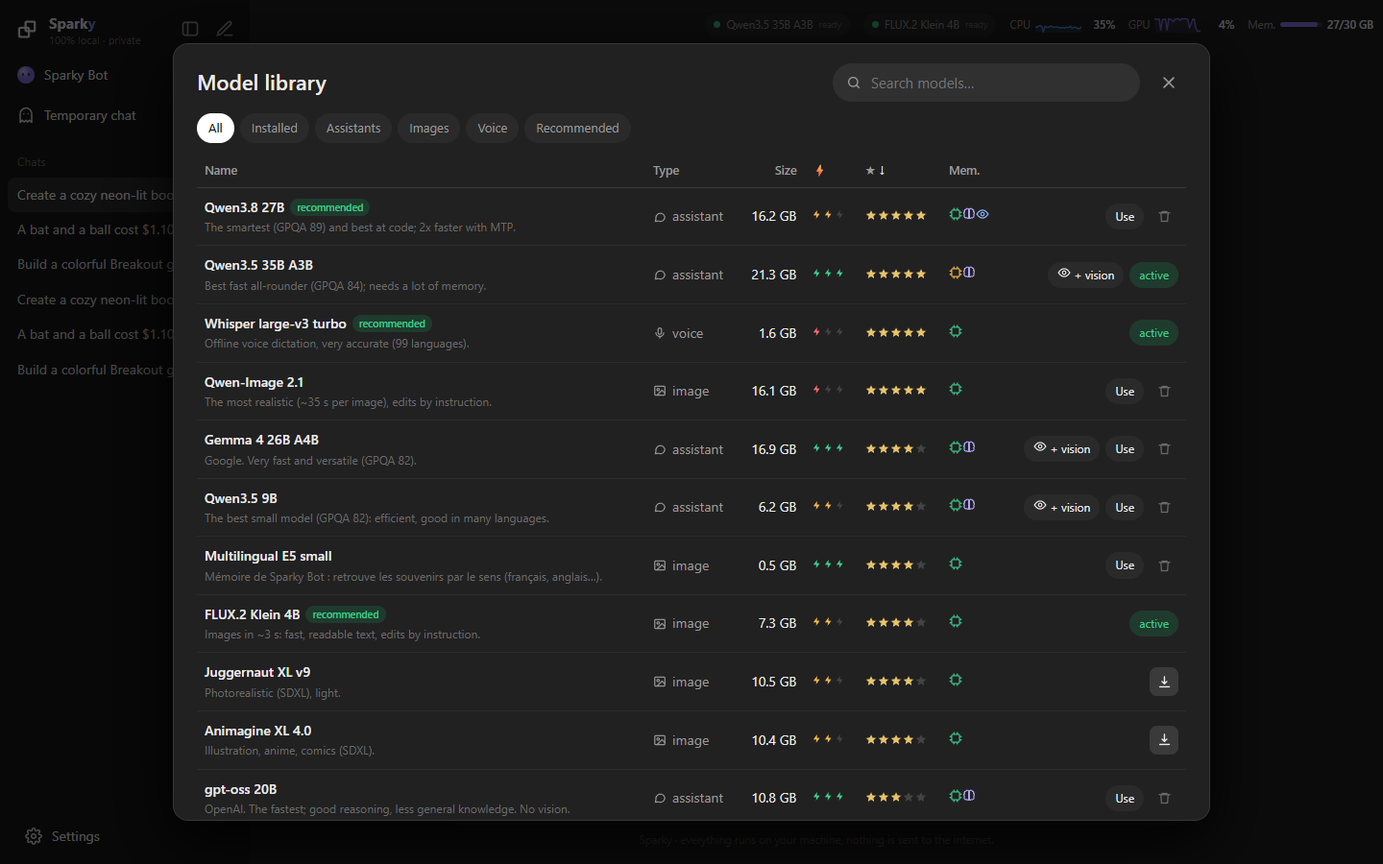
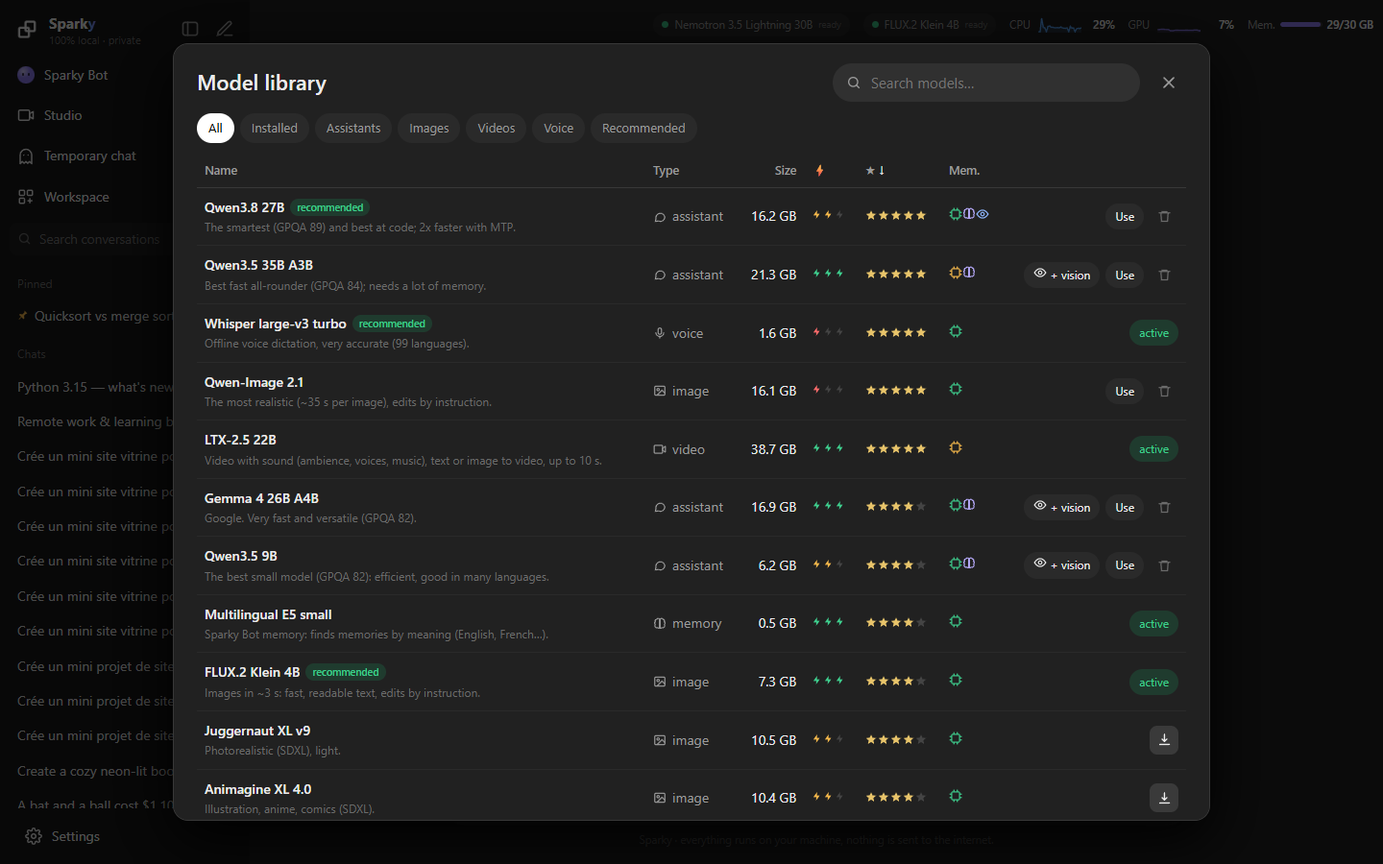
README: features with emojis, new screenshots (Studio, video GIF, web search, light theme, tasks, settings, library); light theme and translation fixes

diff --git a/app/index.html b/app/index.html
@@ -26,7 +26,7 @@ body.closed #side{margin-left:-260px}
 #list{flex:1;overflow-y:auto;padding:6px 8px}
 #list .h{font-size:12px;color:var(--dim);padding:12px 10px 6px}
 .cv{display:flex;align-items:center;padding:7px 10px;border-radius:8px;cursor:pointer;font-size:14px;color:var(--txt2)}
-.cv:hover{background:var(--hov)}.cv.on{background:var(--s2);color:#fff}
+.cv:hover{background:var(--hov)}.cv.on{background:var(--s2);color:var(--txt)}
 .cv span{flex:1;overflow:hidden;white-space:nowrap;text-overflow:ellipsis}
 .cv button{display:none;color:var(--mut);width:24px;height:24px;border-radius:6px;place-items:center}
 .cv:hover button{display:grid}.cv button:hover{color:var(--bad)}
@@ -140,7 +140,7 @@ footer{padding:0 20px 16px}
 #edwrap{position:relative;line-height:0}
 #edwrap canvas{display:block}
 #mk{position:absolute;left:0;top:0;opacity:.5;cursor:crosshair;touch-action:none}
-input[type=range]{accent-color:#fff}
+input[type=range]{accent-color:var(--txt)}
 #set{position:fixed;inset:0;background:#000a;display:none;place-items:center;z-index:12}
 #set .card{background:var(--s2);border-radius:16px;width:min(520px,94vw);max-height:90vh;overflow:auto;padding:22px}
 #set h3{margin:0 0 16px;font-weight:600}
@@ -954,6 +954,9 @@ const EN={
  'Tes images et vidéos : génère, anime une image':'Your images and videos: generate, animate a picture','vidéo':'video','pour 5 s de vidéo':'for 5 s of video',
  'en pause (vidéo)':'paused (video)',"l'assistant est en pause pendant une vidéo du Studio, il revient juste après":'the assistant is paused during a Studio video, it comes back right after',
  "rechargement de l'assistant":'reloading the assistant',
+ "Vidéo avec le son (ambiance, voix, musique), texte ou image vers vidéo, jusqu'à 10 s.":'Video with sound (ambience, voices, music), text or image to video, up to 10 s.',
+ 'Vidéo plus légère (sans le son), texte ou image vers vidéo.':'Lighter video (no sound), text or image to video.','inconnu':'unknown',
+ 'lourd : l’assistant est mis en pause pendant une vidéo':'heavy: the assistant is paused during a video','tient en mémoire':'fits in memory',
  'Thème':'Theme','Auto (comme Windows)':'Auto (follow Windows)','Clair':'Light','Sombre':'Dark',
  // projets
  'Test automatique : ça fonctionne':'Automatic test: it works','Test automatique : erreurs trouvées':'Automatic test: errors found','essai':'attempt',
@@ -994,6 +997,7 @@ const EN={
  "Sans GPU NVIDIA, l'assistant tourne sur le processeur : choisis un petit modèle.":'Without an NVIDIA GPU the assistant runs on the processor: pick a small model.',
 };
 const EN_RX=[
+ [/^En cours : (.+?) · Auto = (.+?) selon la mémoire libre\. Un contexte plus grand utilise plus de mémoire\.$/,'Running: $1 · Auto = $2 from the free memory. A bigger context uses more memory.'],
  [/^clé (.+)$/,'key $1'],[/^☁ Modèle cloud actif \((.+)\) : tes messages sont envoyés à ce fournisseur\.$/,'☁ Cloud model active ($1): your messages are sent to this provider.'],
  [/^(\d+) modèles$/,'$1 models'],[/^Connexion à (.+)$/,'Connecting to $1'],
  [/^(.+) · ([\d.]+) Go$/,'$1 · $2 GB'],[/^(.+) · à jour$/,'$1 · up to date'],[/^(.+) · nouvelle version (.+) disponible$/,'$1 · new version $2 available'],

diff --git a/README.md b/README.md
@@ -19,78 +19,89 @@ everything runs on your own PC. Nothing is sent to the internet unless you turn 
   <img alt="English and French" src="https://img.shields.io/badge/UI-English%20%7C%20Fran%C3%A7ais-lightgrey">
 </p>
 
-<p align="center"><img src="docs/demo-artifact.gif" alt="Sparky writes a Breakout game live in the side panel, then runs it" width="900"></p>
+<p align="center"><img src="docs/demo-studio.gif" alt="Sparky Studio: videos with sound generated locally" width="900"><br><i>🎬 The Studio — every video here was generated on the PC, with its sound, by LTX-2.5.</i></p>
 
 ---
 
-## What it does
+## ✨ What it does
 
-- **Chat like ChatGPT, offline** — conversation history, plus **temporary chats** that are never saved. **Edit** any of your messages, **regenerate** or **continue** an answer, and flip between the versions (‹ 2/3 ›).
-- **Ask your documents (RAG)** — drop PDFs, Word, Excel, PowerPoint, text or code files into a collection: Sparky splits and indexes them on your PC (multilingual embeddings), then answers from them and **cites its sources** [1] [2].
-- **Web search, when you want it** — turn on *Web* under the message box: the assistant searches (DuckDuckGo, or your own SearXNG), reads the pages and the links you paste, and cites them. Off by default.
-- **Assistants & prompt library** — save assistants (a role, their documents, web access) and reusable prompts you insert with **/**, plus standing instructions for every chat or for one conversation.
-- **Rich answers** — tables, LaTeX formulas, Mermaid diagrams, task lists and syntax-highlighted code, all rendered offline.
-- **Organize your chats** — full-text search, rename, pin, folders, export (JSON / Markdown) and import.
-- **Read aloud** — 🔊 on any answer: offline Piper voices (English, French, German, Spanish, Italian).
-- **Tools (MCP)** — plug any Model Context Protocol server (same config as Claude Desktop: files, GitHub, databases…) and the assistant uses its tools.
-- **Scheduled tasks** — "every morning at 8, summarize the tech news": Sparky runs the prompt and files the answer in a new chat.
-- **OpenAI-compatible API** — use Sparky's model from other apps (Continue, VS Code extensions, scripts) at `http://127.0.0.1:7860/v1`, with a key. Off by default.
-- **Light or dark** — follows Windows, or choose in the settings.
-- **Code & apps panel** — ask for a game, a web page, a tool or a script: it is written live in a panel next to the chat, with a **running preview**, the code, versions, copy and download.
-- **Multi-file projects** — "build me a mini project": a website with `index.html` + `css/` + `js/`, or a Python program split in modules. Files are written one by one, the preview serves the whole project, the assistant can **generate the pictures** of a website itself (hero banner, products…) and put them in the project, and when it is done Sparky **tests the project automatically** — website opened in a headless browser (JavaScript errors, missing files, broken layout, every button clicked), Python and Node.js programs executed (`npm install` included) — and the model **fixes the errors until it works**. **▶ Run** re-runs it anytime, and the project downloads as a ZIP. Node.js is installed automatically (portable).
-- **Studio: images & videos** — a gallery of everything you generated, with a Grok-Imagine-like prompt bar: **text → image**, **text → video** and **image → video** (animate any picture). Videos come **with synchronized sound** (LTX-2.5); your idea can be expanded into a detailed prompt by the assistant first.
-- **Images** — generate and edit pictures by simply asking ("make it snow", "remove the bottle"). The agent checks its own result and retries when needed.
-- **Attach any file** — click **+** or drag and drop: PDF, Word, PowerPoint, Excel, text and code files are read, audio and video are transcribed offline by Whisper, and everything is given to the assistant as context. Each file shows a preview card (*Added as context!*).
-- **Vision** — drop photos, screenshots or scanned documents: the assistant sees and analyses them.
-- **Sparky Bot (beta)** — a companion that remembers you, learns your style and grows with you, with a memory you can see and edit ([details](#-sparky-bot--personal-companion-with-memory-beta-in-progress)).
-- **Voice dictation, offline** — click the mic, talk, stop: Whisper turns your voice into text right in the input box.
-- **Adjustable thinking** — Off, Light, Normal or Deep, right from the model menu.
-- **System scan** — at install time (and anytime from *Settings > System*) Sparky checks your GPU, memory and disk, then **recommends the models that fit your machine**.
-- **Cloud models, if you want** — add an OpenRouter, Claude, OpenAI (or other) key in the settings to use cloud models too. Off by default.
-- **Models already on your PC** — on first launch Sparky looks for the models you already have (LM Studio, Ollama, Hugging Face cache, Jan, GPT4All, llama.cpp, other ComfyUI installs, any folder) and uses them in one click, without downloading them again.
-- **Model library** — one-click installs with resumable downloads, and speed / quality / memory indicators *for your hardware*.
-- **Only official models** — Qwen, Gemma, gpt-oss, Nemotron, FLUX.2, Whisper… "uncensored", "abliterated" or NSFW variants are excluded from the catalog and from the Hugging Face search.
-- **English or French** — chosen during install, switchable in the settings.
+### 💬 Chat
+- 🔒 **Like ChatGPT, offline** — history, plus 👻 **temporary chats** that are never saved.
+- ✏ **Edit** any message, 🔁 **regenerate** or ➡ **continue** an answer, and flip between versions (‹ 2/3 ›).
+- 🧠 **Adjustable thinking** — Off, Light, Normal or Deep, and see how the model reasoned.
+- 📝 **Rich answers** — tables, LaTeX formulas, Mermaid diagrams, task lists, syntax-highlighted code (all offline).
+- 👁 **Vision** — drop photos, screenshots or scans: the assistant sees and analyses them.
+- 📎 **Attach any file** — PDF, Word, PowerPoint, Excel, text, code, audio and video (transcribed offline).
+- 🗂 **Organize your chats** — full-text search, rename, 📌 pin, 📁 folders, export (JSON / Markdown) and import.
 
-## Everything Sparky supports
+### 📚 Knowledge & web
+- 📄 **Ask your documents (RAG)** — collections of PDFs, Office files, text, code… indexed on your PC, answers **with numbered sources** [1] [2].
+- 🌐 **Web search, when you want it** — turn on *Web*: the assistant searches (DuckDuckGo or your SearXNG), reads pages and the links you paste, and cites them. Off by default.
+- 🧑💼 **Assistants** — a role, its documents and web access, reusable in one click.
+- ⚡ **Prompt library** — type **/** to insert a saved prompt with `{{variables}}`; standing instructions for every chat or just one.
+
+### 🎨 Create
+- 🎬 **Studio: images & videos** — a gallery of everything you generated, with a Grok-Imagine-like prompt bar: **text → image**, **text → video**, **image → video** ("Animate"). Videos come **with synchronized sound** 🔊 (LTX-2.5), and your idea is expanded into a detailed prompt first.
+- 🖼 **Images** — generate and edit by asking ("make it snow", "remove the bottle"); the agent checks its own result and retries.
+- 🧩 **Code & apps panel** — games, pages, tools and scripts written live next to the chat, with a **running preview**.
+- 🏗 **Multi-file projects** — websites (`index.html` + `css/` + `js/`), Python or Node.js programs; the assistant makes the pictures, then Sparky **tests the project automatically** (headless browser, `npm install`, run) and the model **fixes the errors until it works**. ▶ Run anytime, download as ZIP.
+
+### 🎙 Voice
+- 🎤 **Dictation, offline** — click the mic, talk, stop: Whisper writes it in the input box.
+- 🔊 **Read aloud** — on any answer, offline Piper voices (English, French, German, Spanish, Italian).
+
+### 🛠 Tools & automation
+- 🔌 **MCP tools** — plug any Model Context Protocol server (same config as Claude Desktop: files, GitHub, databases…).
+- ⏰ **Scheduled tasks** — "every morning at 8, summarize the tech news": the answer lands in a new chat.
+- 🔗 **OpenAI-compatible API** — use Sparky's model from Continue, VS Code extensions or scripts at `http://127.0.0.1:7860/v1`. Off by default.
+- 🤖 **Sparky Bot (beta)** — a companion that remembers you and learns your style, with a memory you can see and edit ([details](#-sparky-bot--personal-companion-with-memory-beta-in-progress)).
+
+### ⚙ Models & setup
+- 🩺 **System scan** — checks your GPU, memory and disk, then **recommends the models that fit your machine**.
+- 📦 **Model library** — one-click installs, fast parallel resumable downloads, speed / quality / memory indicators *for your hardware*.
+- ♻ **Models already on your PC** — LM Studio, Ollama, Hugging Face cache, Jan, GPT4All, other ComfyUI installs… used in one click.
+- ☁ **Cloud models, if you want** — OpenRouter, Claude, OpenAI, Gemini, Mistral… Off by default.
+- ✅ **Only official models** — "uncensored", "abliterated" or NSFW variants are excluded from the catalog and the Hugging Face search.
+- 🌗 **Light or dark** theme, 🇬🇧 **English or 🇫🇷 French** interface, ⬆ one-click updates.
+
+## 📋 Everything Sparky supports
 
 | Area | Supported |
 |---|---|
-| **Chat** | streaming answers · visible reasoning with 4 thinking levels · edit a sent message · regenerate · continue · answer versions (‹ 2/3 ›) · copy · read aloud · temporary chats · English / French UI · light / dark / auto theme |
-| **Conversations** | history · full-text search · rename · pin · folders · export JSON (with images) or Markdown · import (Sparky JSON or `[{role, content}]`) |
-| **Setup of a chat** | assistant presets (role, documents, web) · per-chat instructions (system prompt) · standing instructions for every chat · prompt library with `/commands` and `{{variables}}` |
-| **Documents (RAG)** | collections · PDF (with page numbers), Word, PowerPoint, Excel, OpenDocument, text, Markdown, CSV, JSON, code, audio and video (transcribed) · local multilingual embeddings (`multilingual-e5-small`) + keyword search · numbered citations with the source passages |
-| **Web** | search (DuckDuckGo / Bing, or your SearXNG) · reads pages and pasted links (HTML, PDF, text) · citations · private addresses blocked · off by default, per chat |
-| **Files in a message** | images (vision), PDF, Office, text and code, audio and video (offline Whisper transcription) · drag and drop, paste |
-| **Studio** | media library of every image and video (Studio and chats) · text → image · text → video · image → video ("Animate") · 16:9, 9:16, 1:1, 4:3, 3:4 · 3 to 10 s · prompt enhancement · video player, download, reuse prompt · the local assistant pauses during a video and comes back after |
-| **Video models** | LTX-2.5 22B (video + sound, ~40 s for 4 s of video on an RTX Spark once loaded) · Wan 2.2 5B (lighter, no sound) |
-| **Images** | generate and edit by instruction (FLUX.2 Klein, Qwen-Image 2.1, SDXL) · paint a zone to edit · reuse a face, character, style or scene · the agent checks its result and retries |
-| **Code & projects** | artifacts panel with live preview, code, versions, download · multi-file projects (web, Python, Node.js) · automatic test-and-fix loop (headless browser, Python, `npm install` / build / test) · ▶ Run · ZIP download · generated pictures inside projects |
-| **Markdown** | GFM tables · task lists · LaTeX (KaTeX) · Mermaid diagrams · syntax highlighting · citations · served locally (no CDN) |
-| **Voice** | offline dictation (Whisper large-v3 turbo / base) with live level bars · offline read-aloud (Piper voices: en, fr, de, es, it) |
-| **Tools** | MCP servers over stdio (`command` / `args` / `env`) or Streamable HTTP (`url` / `headers`), Claude Desktop config format |
-| **Automation** | scheduled tasks: daily, weekly, every N minutes, once · results filed in a new chat with an unread badge |
-| **API** | OpenAI-compatible `/v1/models`, `/v1/chat/completions` (streaming or not), `/v1/embeddings` · bearer key · off by default · local only |
-| **Models** | local GGUF assistants (llama.cpp: CUDA x64 / ARM64, or CPU) · catalog with speed / quality / memory for your PC · models already on your PC (LM Studio, Ollama, Hugging Face cache…) · Hugging Face search · optional cloud models (OpenRouter, Claude, OpenAI, Gemini, Mistral, Groq, DeepSeek, xAI, any OpenAI-compatible server) · only official, non-NSFW models |
-| **Sparky Bot (beta)** | companion with long-term, editable memory · style profile · journal · relationship level |
-| **Install & updates** | step-by-step installer · system scan with recommended models · one-click updates |
+| 💬 **Chat** | streaming answers · visible reasoning with 4 thinking levels · edit a sent message · regenerate · continue · answer versions (‹ 2/3 ›) · copy · read aloud · temporary chats · English / French UI · light / dark / auto theme |
+| 🗂 **Conversations** | history · full-text search · rename · pin · folders · export JSON (with images) or Markdown · import (Sparky JSON or `[{role, content}]`) |
+| 🧑💼 **Setup of a chat** | assistant presets (role, documents, web) · per-chat instructions (system prompt) · standing instructions for every chat · prompt library with `/commands` and `{{variables}}` |
+| 📄 **Documents (RAG)** | collections · PDF (with page numbers), Word, PowerPoint, Excel, OpenDocument, text, Markdown, CSV, JSON, code, audio and video (transcribed) · local multilingual embeddings (`multilingual-e5-small`) + keyword search · numbered citations with the source passages |
+| 🌐 **Web** | search (DuckDuckGo / Bing, or your SearXNG) · reads pages and pasted links (HTML, PDF, text) · citations · private addresses blocked · off by default, per chat |
+| 📎 **Files in a message** | images (vision), PDF, Office, text and code, audio and video (offline Whisper transcription) · drag and drop, paste |
+| 🎬 **Studio** | media library of every image and video (Studio and chats) · text → image · text → video · image → video ("Animate") · 16:9, 9:16, 1:1, 4:3, 3:4 · 3 to 10 s · prompt enhancement · video player, download, reuse prompt · the local assistant pauses during a video and comes back after |
+| 🎞 **Video models** | LTX-2.5 22B (video + sound, ~40 s for 4 s of video on an RTX Spark once loaded) · Wan 2.2 5B (lighter, no sound) |
+| 🖼 **Images** | generate and edit by instruction (FLUX.2 Klein, Qwen-Image 2.1, SDXL) · paint a zone to edit · reuse a face, character, style or scene · the agent checks its result and retries |
+| 🧩 **Code & projects** | artifacts panel with live preview, code, versions, download · multi-file projects (web, Python, Node.js) · automatic test-and-fix loop (headless browser, Python, `npm install` / build / test) · ▶ Run · ZIP download · generated pictures inside projects |
+| 📝 **Markdown** | GFM tables · task lists · LaTeX (KaTeX) · Mermaid diagrams · syntax highlighting · citations · served locally (no CDN) |
+| 🎙 **Voice** | offline dictation (Whisper large-v3 turbo / base) with live level bars · offline read-aloud (Piper voices: en, fr, de, es, it) |
+| 🔌 **Tools** | MCP servers over stdio (`command` / `args` / `env`) or Streamable HTTP (`url` / `headers`), Claude Desktop config format |
+| ⏰ **Automation** | scheduled tasks: daily, weekly, every N minutes, once · results filed in a new chat with an unread badge |
+| 🔗 **API** | OpenAI-compatible `/v1/models`, `/v1/chat/completions` (streaming or not), `/v1/embeddings` · bearer key · off by default · local only |
+| 📦 **Models** | local GGUF assistants (llama.cpp: CUDA x64 / ARM64, or CPU) · catalog with speed / quality / memory for your PC · models already on your PC (LM Studio, Ollama, Hugging Face cache…) · Hugging Face search · optional cloud models (OpenRouter, Claude, OpenAI, Gemini, Mistral, Groq, DeepSeek, xAI, any OpenAI-compatible server) · only official, non-NSFW models |
+| 🤖 **Sparky Bot (beta)** | companion with long-term, editable memory · style profile · journal · relationship level |
+| 🚀 **Install & updates** | step-by-step installer · system scan with recommended models · one-click updates |
 
-## Screenshots
-
-<p align="center"><img src="docs/studio.png" alt="Studio: media library and prompt bar" width="900"><br><i>Studio — every image and video in one place; here a picture is about to be animated into a video with sound.</i></p>
+## 📸 Screenshots
 
 | | |
 |---|---|
-| <img src="docs/studio-video.png" alt="Studio video viewer"><br>**Image → video** — the lighthouse picture, animated with LTX-2.5 (waves, rotating beam, sound) | <img src="docs/knowledge-chat.png" alt="Answers from your documents with citations"><br>**Documents** — answers from your files, with numbered sources |
-| <img src="docs/markdown.png" alt="Tables, formulas and diagrams"><br>**Rich answers** — tables, LaTeX, Mermaid, versions of an answer | <img src="docs/workspace-documents.png" alt="Workspace: document collections"><br>**Workspace** — document collections indexed on your PC |
-| <img src="docs/workspace-assistants.png" alt="Workspace: assistants"><br>**Assistants** — a role, documents and web access, reusable | <img src="docs/prompts.png" alt="Prompt library"><br>**Prompt library** — type / to insert a saved prompt |
-| <img src="docs/workspace-tools.png" alt="MCP tools"><br>**Tools (MCP)** — plug any MCP server | |
+| <img src="docs/studio.png" alt="Studio: videos generated locally"><br>🎬 **Studio** — your images and videos, with their sound | <img src="docs/studio-video.png" alt="Studio video viewer"><br>🎞 **Video viewer** — balloons over Cappadocia, made on the PC in 2 minutes |
+| <img src="docs/studio-animate.png" alt="Animate a picture"><br>✨ **Image → video** — pick a picture, describe the motion and the sounds | <img src="docs/web-search.png" alt="Web search with citations"><br>🌐 **Web search** — the assistant searches, reads and cites its sources |
+| <img src="docs/knowledge-chat.png" alt="Answers from your documents with citations"><br>📄 **Documents** — answers from your files, with numbered sources | <img src="docs/markdown.png" alt="Tables, formulas and diagrams"><br>📝 **Rich answers** — tables, LaTeX, Mermaid, versions of an answer |
+| <img src="docs/workspace-documents.png" alt="Workspace: document collections"><br>📚 **Workspace** — document collections indexed on your PC | <img src="docs/workspace-assistants.png" alt="Workspace: assistants"><br>🧑💼 **Assistants** — a role, documents and web access, reusable |
+| <img src="docs/prompts.png" alt="Prompt library"><br>⚡ **Prompt library** — type / to insert a saved prompt | <img src="docs/workspace-tools.png" alt="MCP tools"><br>🔌 **Tools (MCP)** — plug any MCP server |
+| <img src="docs/workspace-tasks.png" alt="Scheduled tasks"><br>⏰ **Scheduled tasks** — prompts that run by themselves | <img src="docs/light.png" alt="Light theme"><br>🌗 **Light theme** — or dark, or follow Windows |
+| <img src="docs/image-edit.png" alt="Image generation and editing"><br>🖼 **Images** — generate, then edit by instruction | <img src="docs/thinking.png" alt="Visible reasoning"><br>🧠 **Thinking** — see how the model reasoned |
+| <img src="docs/library-video.png" alt="Video models in the library"><br>📦 **Model library** — assistants, images, videos, voice | <img src="docs/settings.png" alt="Settings"><br>⚙ **Settings** — language, theme, system, models, context |
+| <img src="docs/welcome.png" alt="Welcome screen with system scan"><br>🩺 **First launch** — system scan and recommended models | <img src="docs/picker.png" alt="Model menu with thinking levels"><br>🔀 **Model menu** — switch models, pick a thinking level |
 
-| | |
-|---|---|
-| <img src="docs/image-edit.png" alt="Image generation and editing"><br>**Images** — generate, then edit by instruction | <img src="docs/thinking.png" alt="Visible reasoning"><br>**Thinking** — see how the model reasoned |
-| <img src="docs/welcome.png" alt="Welcome screen with system scan"><br>**First launch** — system scan and recommended models | <img src="docs/picker.png" alt="Model menu with thinking levels"><br>**Model menu** — switch models, pick a thinking level |
-| <img src="docs/library.png" alt="Model library"><br>**Model library** — speed, quality and memory for your PC | <img src="docs/settings.png" alt="Settings"><br>**Settings** — language, system, models |
+<p align="center"><img src="docs/demo-artifact.gif" alt="Sparky writes a Breakout game live in the side panel, then runs it" width="800"><br><i>🧩 A Breakout game written live in the side panel, then played.</i></p>
 
 <p align="center"><img src="docs/demo-image.gif" alt="Generating and editing an image" width="800"></p>
 
@@ -129,7 +140,7 @@ Sparky Bot is a friend-like companion that **remembers you, learns your style an
 - [ ] Memory import / export, per-memory "why do you know this?" with the source message
 - [ ] Larger evaluation set for the memory engine across models
 
-## Install (Windows 10/11)
+## 🚀 Install (Windows 10/11)
 
 **One line**, in PowerShell:
 
@@ -157,7 +168,7 @@ Next times, double-click the shortcut (or `start.bat`). To stop everything: `sto
 
 Installer options: `-Lang en|fr`, `-Dir <folder>`, `-Yes` (no questions), `-Models` (also download the recommended models from the terminal), `-NoLaunch`. For the one-line install, use the environment variables `SPARKY_LANG`, `SPARKY_DIR`, `SPARKY_YES`, `SPARKY_MODELS`, `SPARKY_NOLAUNCH`.
 
-### Which machine?
+### 💻 Which machine?
 
 | Machine | Runs well |
 |---|---|
@@ -168,7 +179,7 @@ Installer options: `-Lang en|fr`, `-Dir <folder>`, `-Yes` (no questions), `-Mode
 
 The system scan picks automatically among these.
 
-## Models
+## 🧠 Models
 
 Speeds measured on an RTX Spark N1X (Q4, full power); Sparky adapts them to your GPU.
 
@@ -209,7 +220,7 @@ Video models are big: during a video, Sparky pauses the local assistant to give 
 
 Every model keeps its own license (Apache 2.0, Gemma Terms of Use, NVIDIA Open Model License, etc.): check its Hugging Face page before any commercial use.
 
-## Existing installation (ComfyUI / llama.cpp already installed)
+## 🔧 Existing installation (ComfyUI / llama.cpp already installed)
 
 Create a `config.json` file at the project root to reuse your folders:
 
@@ -225,7 +236,7 @@ Create a `config.json` file at the project root to reuse your folders:
 
 Other keys: `voice_dir`, `data_dir`, `app_port` (7860), `llm_port` (8080), `comfy_port` (8188). The `SPARKY_CONFIG` environment variable can point to another config file.
 
-## Command line
+## ⌨ Command line
 
 ```powershell
 runtime\venv\Scripts\python.exe app\syscheck.py                  # system scan (add --lang=fr for French)
@@ -234,12 +245,12 @@ runtime\venv\Scripts\python.exe app\models_cli.py --recommended  # install the r
 runtime\venv\Scripts\python.exe app\models_cli.py qwen359        # install one model
 ```
 
-## Update / uninstall
+## ⬆ Update / uninstall
 
 - **Update**: Sparky checks GitHub once an hour. When a new version is out, a message offers to **install the update**: Sparky runs `git pull` and restarts by itself. If files were modified locally, it lists them and gives the command to put them aside first; for an install made from the ZIP, it gives the install command to run again. The current version is in *Settings > Version* (and in the `VERSION` file).
 - **Uninstall**: `stop.bat`, then delete the install folder (`%LOCALAPPDATA%\Sparky` by default) and the shortcuts.
 
-## Cloud models (optional)
+## ☁ Cloud models (optional)
 
 Sparky is 100% local by default. If you want, *Settings > Cloud models* lets you add a key for **OpenRouter, Anthropic (Claude), OpenAI, Google Gemini, Mistral, Groq, DeepSeek, xAI**, or any **OpenAI-compatible** server (LM Studio, vLLM, a company proxy...). Pick a model in the provider's list: it appears in the model menu with a ☁, and switching to it frees your GPU.
 
@@ -247,13 +258,13 @@ Sparky is 100% local by default. If you want, *Settings > Cloud models* lets you
 - While a cloud model is active, the footer says so: your messages, images and attached files then go to that provider.
 - Claude goes through the official `anthropic` SDK (adaptive thinking, effort, refusal fallback); the others through their OpenAI-compatible API.
 
-## Privacy
+## 🔒 Privacy
 
 Everything runs on your machine: conversations, documents, images and models stay in the install folder (`data\`, `models\`). The only outgoing connections download the tools and models (GitHub, PyPI, Hugging Face, the Piper voices), search the model library, check for updates (the `VERSION` file on GitHub), and — only when you turn them on — search the web and read pages (*Web* chip of a chat, scheduled tasks), run MCP tools that reach the internet, or talk to a cloud provider.
 
 The local API only answers the Sparky page itself: requests from other websites (cross-site or DNS rebinding) are refused, and the projects the assistant writes run on their own origin (port 7861), so their code cannot drive Sparky. The OpenAI-compatible API (`/v1`) is off by default; when on, it requires its key and still only listens on `127.0.0.1`. Web reading refuses private and local addresses.
 
-## OpenAI-compatible API
+## 🔗 OpenAI-compatible API
 
 Turn it on in *Workspace > API*, then point any OpenAI client at Sparky's active model:
 
@@ -263,7 +274,7 @@ client = OpenAI(base_url="http://127.0.0.1:7860/v1", api_key="sk-sparky-...")  #
 print(client.chat.completions.create(model="sparky", messages=[{"role": "user", "content": "Hello!"}]).choices[0].message.content)
 ```
 
-## MCP tools
+## 🔌 MCP tools
 
 *Workspace > Tools (MCP)* takes the same JSON as Claude Desktop, for example:
 
@@ -276,7 +287,7 @@ print(client.chat.completions.create(model="sparky", messages=[{"role": "user", 
 
 Servers start with Sparky (the bundled Node.js provides `npx`); their tools are offered to the assistant in every chat.
 
-## Development
+## 🧪 Development
 
 ```powershell
 runtime\venv\Scripts\python.exe -m pip install pytest ruff
@@ -286,13 +297,13 @@ runtime\venv\Scripts\python.exe -m pytest
 
 The tests need no model, GPU or network: they run Sparky on throw-away folders, with scripted models and fake cloud providers (`tests/mocks.py`). GitHub Actions runs them on Windows (Python 3.10 and 3.13) and Linux, and checks that the PowerShell scripts parse in Windows PowerShell 5.1.
 
-## En français
+## 🇫🇷 En français
 
 L'interface et l'installeur existent aussi en français : choisis *Français* au début de l'installation, ou change la langue dans *Paramètres*.
 
 <p align="center"><img src="docs/french.png" alt="Sparky en français" width="760"></p>
 
-## Project layout
+## 🗂 Project layout
 
 ```
 app/
@@ -326,6 +337,6 @@ start.ps1 / stop.ps1
 docs/           screenshots and demos
 ```
 
-## License
+## 📜 License
 
 Code under the [MIT](LICENSE) license. ComfyUI (GPL-3.0) and llama.cpp (MIT) are downloaded separately during install.
